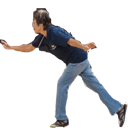
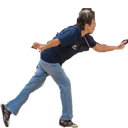
She's left handed now

diff --git a/src/main.c b/src/main.c
@@ -147,7 +147,7 @@ int main(){
     
     double initSpritePositions[][2] = {
         {8.5, 4.5},
-        {2.0,2.0},
+        {4.0, 9.0},
         {4.25, 18},
         {4.75, 18},
         {5.25, 18},
@@ -178,10 +178,6 @@ int main(){
         else imageFilePath = "res/pin.png";
         sprites[i].texture = IMG_LoadTexture(state.rend, imageFilePath);
     }
-    sprites[11].pos = (fvec2) {6,9};
-    sprites[11].angle = 0;
-    sprites[11].texture = IMG_LoadTexture(state.rend,"res/her.png");    
-
     while(1){
         QUIT_CHECK;
         // Wait until the 2nd frame to slow down
